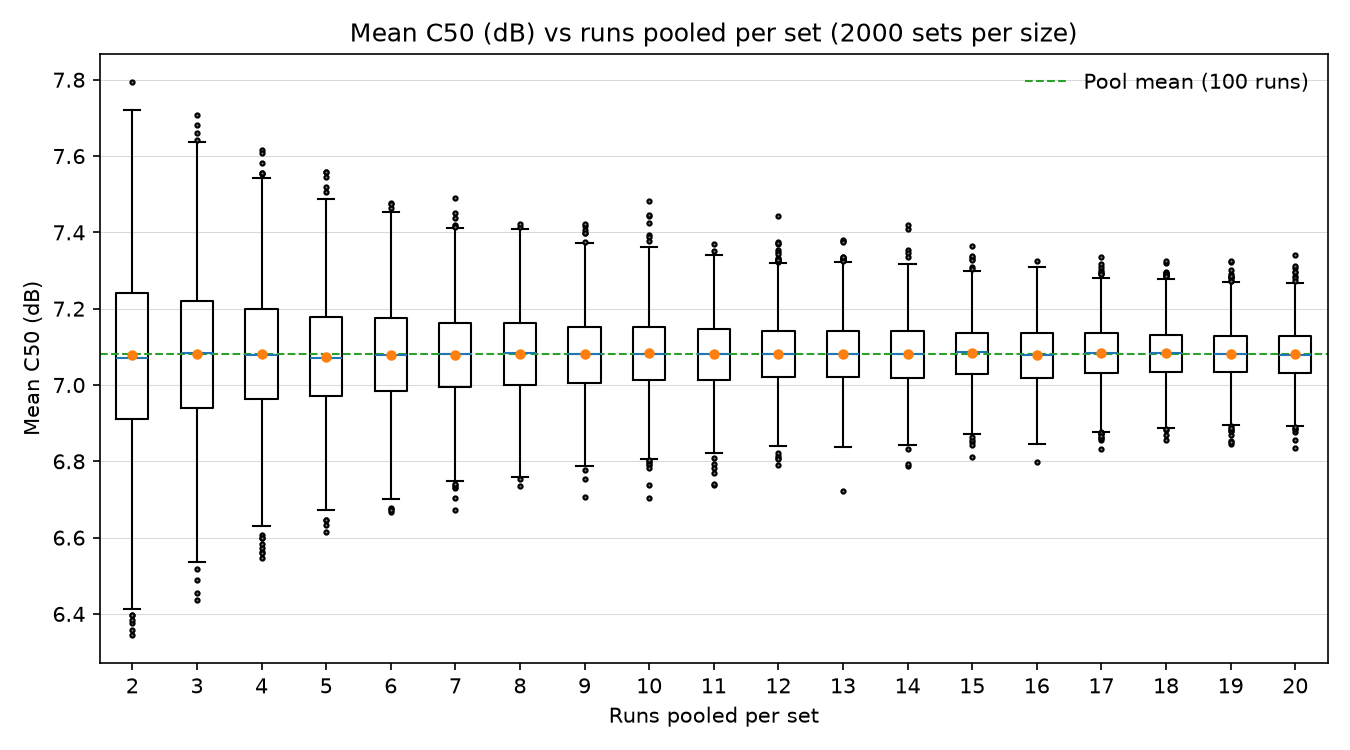
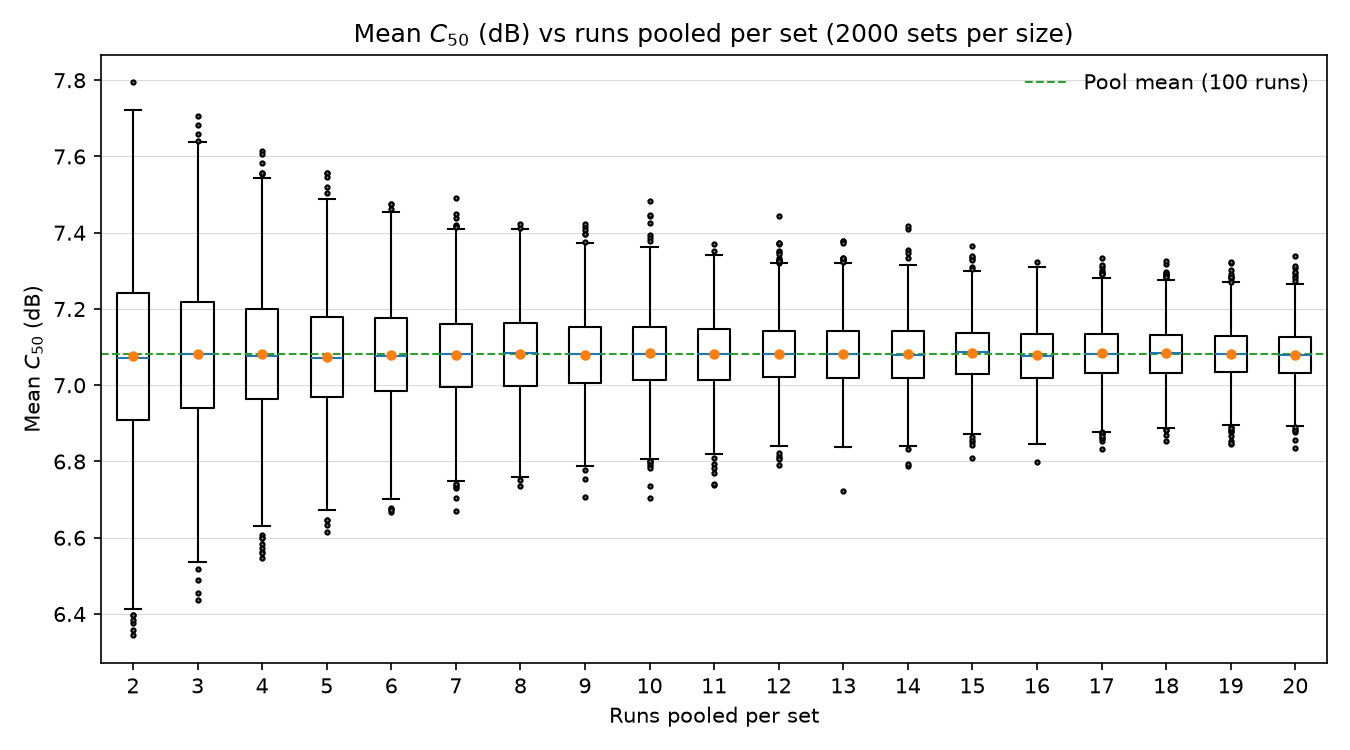
re-plotting figures

diff --git a/plot_bands.py b/plot_bands.py
@@ -36,13 +36,17 @@ from plot_rir import BANDS_HZ, eyring_norris_rt60, resolve_dirs
 # those are read from config_summary.csv rather than written here, because the
 # chosen configuration has changed several times and a stale legend is not
 # visible in the figure it is wrong in.
+# Simulated series are T30, the ISO 3382-1 estimator fitted over -5 to -35 dB
+# and extrapolated to a full 60 dB decay. The Eyring-Norris line is a true T60.
+# Both sit on the same seconds-to-decay-60-dB scale, which is why the axis is
+# generic and the estimator is carried in the legend instead.
 LABELS = {
-    "reference": "Reference",
-    "optimised": "Optimised",
-    "s000": "s = 0 (specular)",
-    "scene": "s = 0.1 (scene value)",
-    "s050": "s = 0.5",
-    "s100": "s = 1.0",
+    "reference": r"Reference $T_{30}$",
+    "optimised": r"Optimised $T_{30}$",
+    "s000": r"$s = 0$ (specular), $T_{30}$",
+    "scene": r"$s = 0.1$ (scene value), $T_{30}$",
+    "s050": r"$s = 0.5$, $T_{30}$",
+    "s100": r"$s = 1.0$, $T_{30}$",
 }
 
 
@@ -70,12 +74,12 @@ def config_labels(directory: str):
 FIGURES = [
     (
         "config_bands_rt60.png",
-        "Per-band RT60 against Eyring-Norris",
+        "Per-band reverberation time against Eyring-Norris",
         ["reference", "optimised"],
     ),
     (
         "scatter_bands_rt60.png",
-        "Per-band RT60 against Eyring-Norris, per scattering coefficient",
+        "Per-band reverberation time against Eyring-Norris, per scattering coefficient",
         ["s000", "scene", "s050", "s100"],
     ),
 ]
@@ -110,7 +114,7 @@ def plot_figure(found, tags, out_path, title, predicted, bands, labels=None):
         color="black",
         linestyle="--",
         linewidth=1.4,
-        label="Eyring-Norris",
+        label=r"Eyring-Norris $T_{60}$",
         zorder=3,
     )
 
@@ -149,7 +153,7 @@ def plot_figure(found, tags, out_path, title, predicted, bands, labels=None):
     ax.set_xticklabels([f"{int(f)}" for f in bands])
     ax.minorticks_off()
     ax.set_xlabel("Octave band centre frequency (Hz)")
-    ax.set_ylabel("RT60 (s)")
+    ax.set_ylabel("Reverberation time (s)")
     ax.set_title(title)
     ax.grid(True, color="0.9", linewidth=0.5)
     ax.legend(fontsize=9)

diff --git a/plot_sweep.py b/plot_sweep.py
@@ -54,7 +54,7 @@ def eyring_reference():
     per_band = eyring_norris_rt60()
     indices = [BANDS_HZ.index(f) for f in EYRING_BANDS_HZ]
     value = float(np.mean([per_band[i] for i in indices]))
-    return value, "Eyring-Norris (mid)"
+    return value, r"Eyring-Norris $T_{60}$ (mid)"
 
 
 AXES = {
@@ -254,7 +254,9 @@ def main() -> None:
     boxplot_metric(
         directory,
         "rt60",
-        "RT60 (s)",
+        # Boxes are T30 (ISO 3382-1, fitted -5 to -35 dB, extrapolated to 60 dB);
+        # the reference line is a true T60, named as such in the legend.
+        r"$T_{30}$ (s)",
         os.path.join(out_dir, prefix + "rt60.png"),
         axis,
         reference=eyring_reference(),
@@ -262,7 +264,7 @@ def main() -> None:
     boxplot_metric(
         directory,
         "c50",
-        "C50 (dB)",
+        r"$C_{50}$ (dB)",
         os.path.join(out_dir, prefix + "c50.png"),
         axis,
     )

diff --git a/plot_variance.py b/plot_variance.py
@@ -129,7 +129,8 @@ def main() -> None:
     rng = np.random.default_rng(RNG_SEED)
     value_arrays = pooled_means(pool, set_sizes, NUM_SETS, rng)
 
-    ylabel = "Mean RT60 (s)" if metric == "rt60" else "Mean C50 (dB)"
+    # T30 per ISO 3382-1: fitted over -5 to -35 dB, extrapolated to a full 60 dB.
+    ylabel = r"Mean $T_{30}$ (s)" if metric == "rt60" else r"Mean $C_{50}$ (dB)"
 
     fig, ax = plt.subplots(figsize=(9, 5))
     ax.boxplot(

diff --git a/plot_rir.py b/plot_rir.py
@@ -11,7 +11,7 @@ BANDS_HZ = [63, 125, 250, 500, 1000, 2000, 4000, 8000]
 # room (make_room) whose absorption varies with frequency. Changing this
 # switches the room constants below, and therefore every Eyring-Norris
 # reference derived from them.
-ROOM = "real"
+ROOM = "standard"
 
 _STANDARD_LX, _STANDARD_LY, _STANDARD_LZ = 3.432, 5.148, 4.29
 _REAL_LX, _REAL_LY, _REAL_LZ = 4.0, 7.0, 3.0
